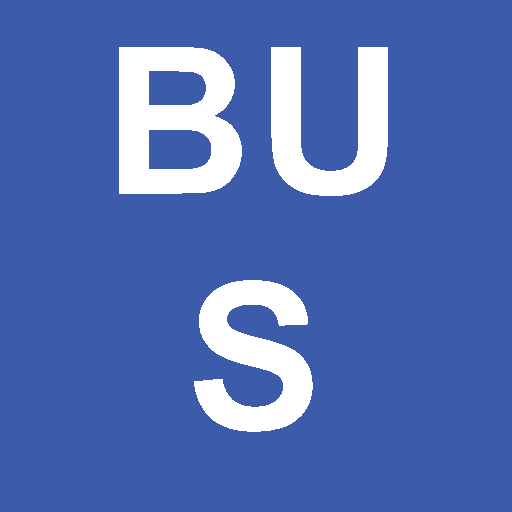
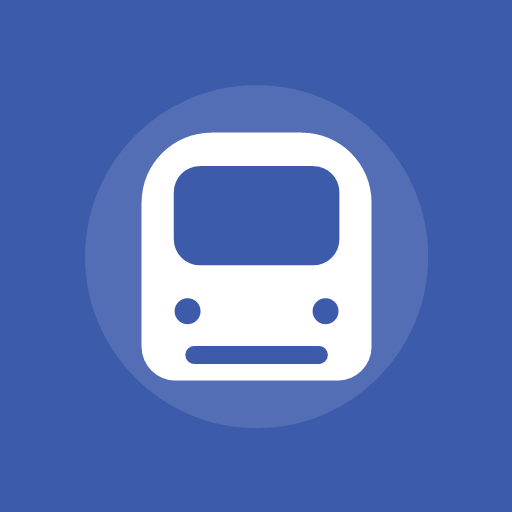
앱 아이콘/OG/버스 마커 디자인 통일 (파란 배경 + 흰 심플 버스)
- icon.svg 신규(마스터) + icon-192/512, apple-touch-icon, og.png 재생성:
  정면 버스(앞유리·헤드라이트·범퍼) 흰 실루엣 + 위치 후광 원. 플랫·심플
- busOverlay: 마커를 화살표형 → 앞이 살짝 좁은 캡슐 + 앞유리(방향 읽힘, 부드러움)
- index.html: rel=icon (svg + png) 추가 / manifest 에 svg 아이콘 항목 추가
- sw busmap-v12

Changed region(s): [[0.2188, 0.0938, 0.7812, 0.8438]]

diff --git a/src/map/busOverlay.js b/src/map/busOverlay.js
@@ -1,11 +1,10 @@
 // 아이콘의 '위'가 진행방향. useBusMarkers 가 heading(도)만큼 회전시킨다.
+// 앞쪽(위)이 살짝 좁은 캡슐 + 앞유리 → 화살표 없이도 방향이 읽힘.
 const busSvg = (color) => `
 <svg viewBox="0 0 30 30" width="100%" height="100%" xmlns="http://www.w3.org/2000/svg">
-  <g stroke="#ffffff" stroke-width="1.6" stroke-linejoin="round">
-    <path d="M15 1 L22 9 L8 9 Z" fill="${color}"/>
-    <rect x="7" y="8" width="16" height="20" rx="4" fill="${color}"/>
-    <rect x="10" y="11.5" width="10" height="5" rx="1.2" fill="#ffffff" stroke="none" opacity="0.95"/>
-  </g>
+  <path d="M15 3c4.6 0 6.5 2.6 6.5 6.4v14c0 2.6-1.7 3.9-6.5 3.9s-6.5-1.3-6.5-3.9v-14C8.5 5.6 10.4 3 15 3z"
+        fill="${color}" stroke="#ffffff" stroke-width="1.8" stroke-linejoin="round"/>
+  <rect x="10" y="8.5" width="10" height="4.6" rx="2" fill="#ffffff"/>
 </svg>`;
 
 const innerTransform = (k) => `translate(-50%, -50%) scale(${k})`;

diff --git a/index.html b/index.html
@@ -7,6 +7,8 @@
 
     <!-- PWA / iOS 홈화면에 추가 -->
     <link rel="manifest" href="/manifest.webmanifest" />
+    <link rel="icon" type="image/svg+xml" href="/icon.svg" />
+    <link rel="icon" type="image/png" sizes="192x192" href="/icon-192.png" />
     <meta name="theme-color" content="#3D5BAB" />
     <meta name="apple-mobile-web-app-capable" content="yes" />
     <meta name="apple-mobile-web-app-status-bar-style" content="black-translucent" />

diff --git a/public/sw.js b/public/sw.js
@@ -1,5 +1,5 @@
 // 앱 셸 캐시 + HTML은 네트워크 우선(배포 즉시 반영). 지도/API는 항상 네트워크.
-const CACHE = 'busmap-v11';
+const CACHE = 'busmap-v12';
 const SHELL = ['/', '/index.html', '/manifest.webmanifest'];
 
 self.addEventListener('install', (e) => {
